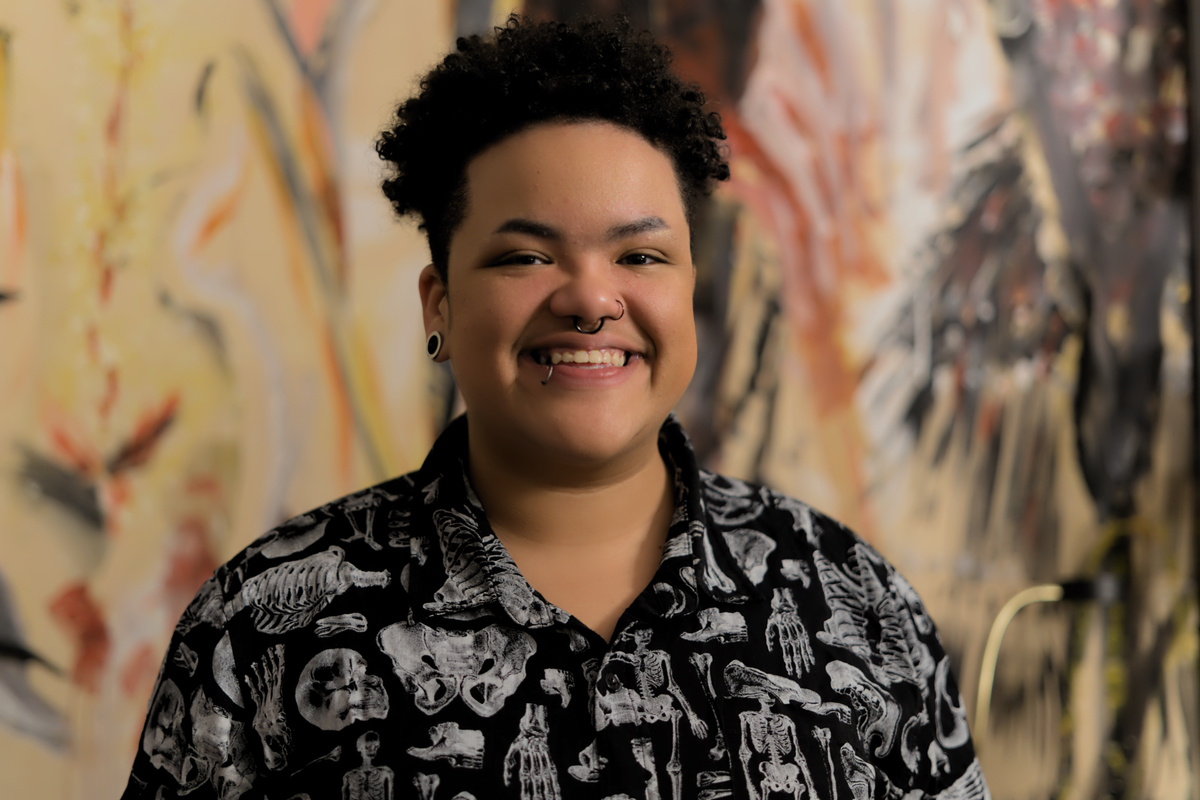
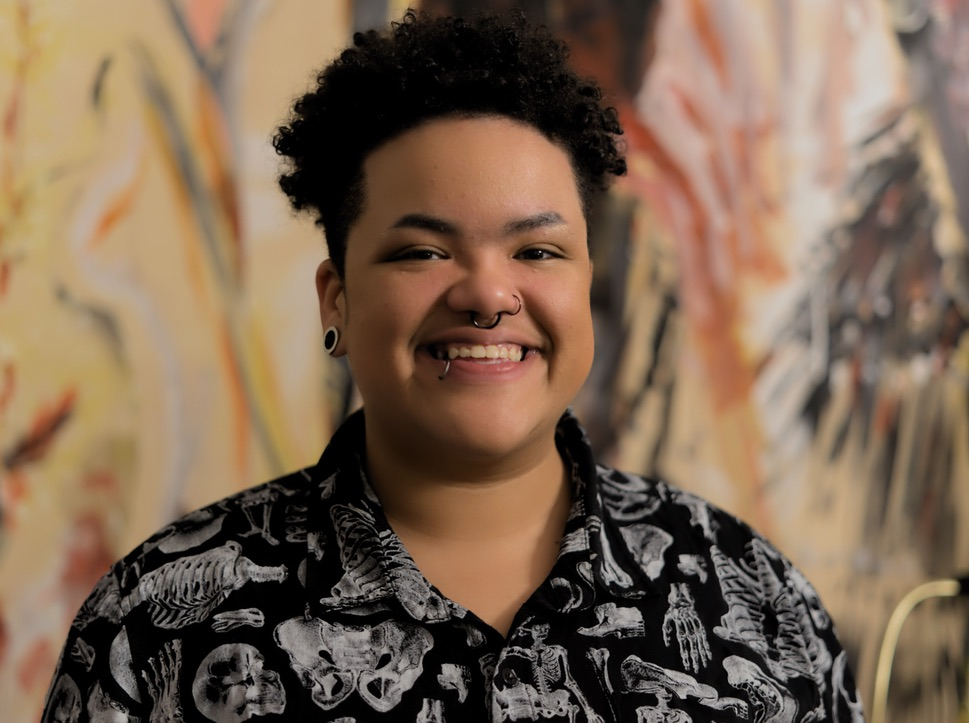
update

diff --git a/index.html b/index.html
@@ -16,10 +16,10 @@
 		<!-- Header -->
 			<header id="header">
 				<div class="inner">
-					<a href="#" class="image avatar"><img src="images/thumbs/Randi_Headshot_2.png" alt="" /></a>
-					<h1><strong>Hi! I'm Randi,</strong> <br />
-						Let's make something beautiful.<br />
-					
+					<a href="#" class="image avatar"><img src="images/thumbs/headshot.smoll copy.jpg" alt="" /></a>
+					<h1><strong>Hi! I'm Randi,</strong> <br /></h1>
+
+					<h1>Let's make something beautiful.<br /></h1>
 				</div>
 			</header>
 
@@ -46,14 +46,24 @@
 						<h2>Recent Work</h2>
 						<div class="row">
 							<article class="col-6 col-12-xsmall work-item">
-								<a href="https://whatsmysign.netlify.app" target="_blank" class="image fit thumb"><img src="images/thumbs/horoscopestill.png" alt="" /></a>
-								<h3>Horoscope Helper</h3>
-								<p>Enter your birthday and learn about your sign.</p>
+								<a href="https://busy-gray-iguana-sock.cyclic.app/" target="_blank" class="image fit thumb"><img src="images/thumbs/vibess.png" alt="" /></a>
+								<h3>vibeCheck</h3>
+								<p>Empowers users to report violent experiences at clubs and venues. Compiles and displays these reports in a searchable list, providing valuable insights into safety concerns. The app also features a proportional symbols map that visually represents areas with high report volumes.</p>
 							</article>
 							<article class="col-6 col-12-xsmall work-item">
-								<a href="https://dothethings.netlify.app" target="_blank"" target="_blank" class="image fit thumb"><img src="images/thumbs/totostill.png" alt="" /></a>
-								<h3>To Do Tracker</h3>
-								<p>A simple to do list.</p>
+								<a href="https://bobsmatching.netlify.app/" target="_blank" class="image fit thumb"><img src="images/thumbs/bobss.png" alt="" /></a>
+								<h3>Bob's Matching Game</h3>
+								<p>A clasic matching game with a Bob's Burgers theme.</p>
+							</article>
+							<article class="col-6 col-12-xsmall work-item">
+								<a href="https://yexmet.netlify.app/" target="_blank" class="image fit thumb"><img src="images/thumbs/yess.png" alt="" /></a>
+								<h3>YE x MET</h3>
+								<p>What do you get when you use the quotes fetched from KanyeRest API to fetch images from The Metropolitan Museum of Art collection? This ironic masterpiece.</p>
+							</article>
+							<article class="col-6 col-12-xsmall work-item">
+								<a href="https://drinkxgif.netlify.app/" target="_blank" class="image fit thumb"><img src="images/thumbs/drinkss.png" alt="" /></a>
+								<h3>DRINK x GIF</h3>
+								<p>Randomized drink recipes with style.</p>
 							</article>
 							<article class="col-6 col-12-xsmall work-item">
 								<a href="https://spookyslots.netlify.app" target="_blank" class="image fit thumb"><img src="images/thumbs/slot.png" alt="" /></a>
@@ -64,16 +74,6 @@
 								<a href="https://nytmirror.netlify.app" target="_blank" class="image fit thumb"><img src="images/thumbs/nytstill.png" alt="" /></a>
 								<h3>NYT Mirror</h3>
 								<p>A reproduction of a past New York Times webpage.</p>
-							</article>
-							<article class="col-6 col-12-xsmall work-item">
-								<a href="https://lgmirror.netlify.app" target="_blank" class="image fit thumb"><img src="images/thumbs/lgstill.png" alt="" /></a>
-								<h3>Level Ground Mirror</h3>
-								<p>A reproduction of a past Level Ground webpage.</p>
-							</article>
-							<article class="col-6 col-12-xsmall work-item">
-								<a href="https://tcmirror.netlify.app" target="_blank" class="image fit thumb"><img src="images/thumbs/tcmirror.png" alt="" /></a>
-								<h3>TechCrunch Mirror</h3>
-								<p>A reproduction of a past TechCrunch webpage.</p>
 							</article>
 						</div>
 					</section>

diff --git a/assets/css/main.css b/assets/css/main.css
@@ -2047,7 +2047,7 @@ input, select, textarea {
 			-webkit-transition: opacity 0.2s ease-in-out;
 			-ms-transition: opacity 0.2s ease-in-out;
 			transition: opacity 0.2s ease-in-out;
-			background: url("images/overlay.png");
+			/* background: url("images/overlay.png"); */
 			border-radius: 0.35em;
 			content: '';
 			display: block;
@@ -2070,6 +2070,7 @@ input, select, textarea {
 				transition: opacity 0.2s ease-in-out;
 				border-radius: 0.35em;
 				border: solid 3px rgba(255, 255, 255, 0.5);
+				background: rgba(0, 0, 0, 0.409);
 				color: #fff;
 				content: 'View';
 				display: inline-block;
@@ -2088,11 +2089,13 @@ input, select, textarea {
 			}
 
 			.image.thumb:hover:after {
+				background: rgba(0, 0, 0, 0.473);
 				opacity: 1.0;
+
 			}
 
 			.image.thumb:hover:before {
-				background: url("images/overlay.png"), url("images/overlay.png");
+				background: rgba(0, 0, 0, 0.473);
 				opacity: 1.0;
 			}
 
@@ -2205,6 +2208,8 @@ input, select, textarea {
 			ul.icons li .icon:before {
 				font-size: 1.5em;
 			}
+
+
 
 /* Labeled Icons */
 
@@ -2631,10 +2636,18 @@ input, select, textarea {
 		}
 
 		#header h1 {
-			color: rgba(255, 255, 255, 0.5);
+			color: rgb(237, 247, 233);
 			font-size: 1.35em;
 			line-height: 1.75em;
 			margin: 0;
+			text-shadow: rgba(16, 12, 12, 0.679) 1px 1px 4px;
+		}
+		#header strong {
+			color: white;
+			font-size: 1.35em;
+			line-height: 1.75em;
+			margin: 0;
+			text-shadow: rgba(16, 12, 12, 0.679) 1px 1px 4px;
 		}
 
 		#header .image.avatar {
@@ -2650,6 +2663,9 @@ input, select, textarea {
 
 		#footer .icons a {
 			color: rgba(255, 255, 255, 0.4);
+		}
+		#footer .icons a:hover {
+			color: rgb(255, 255, 255);
 		}
 
 	#footer .copyright {
